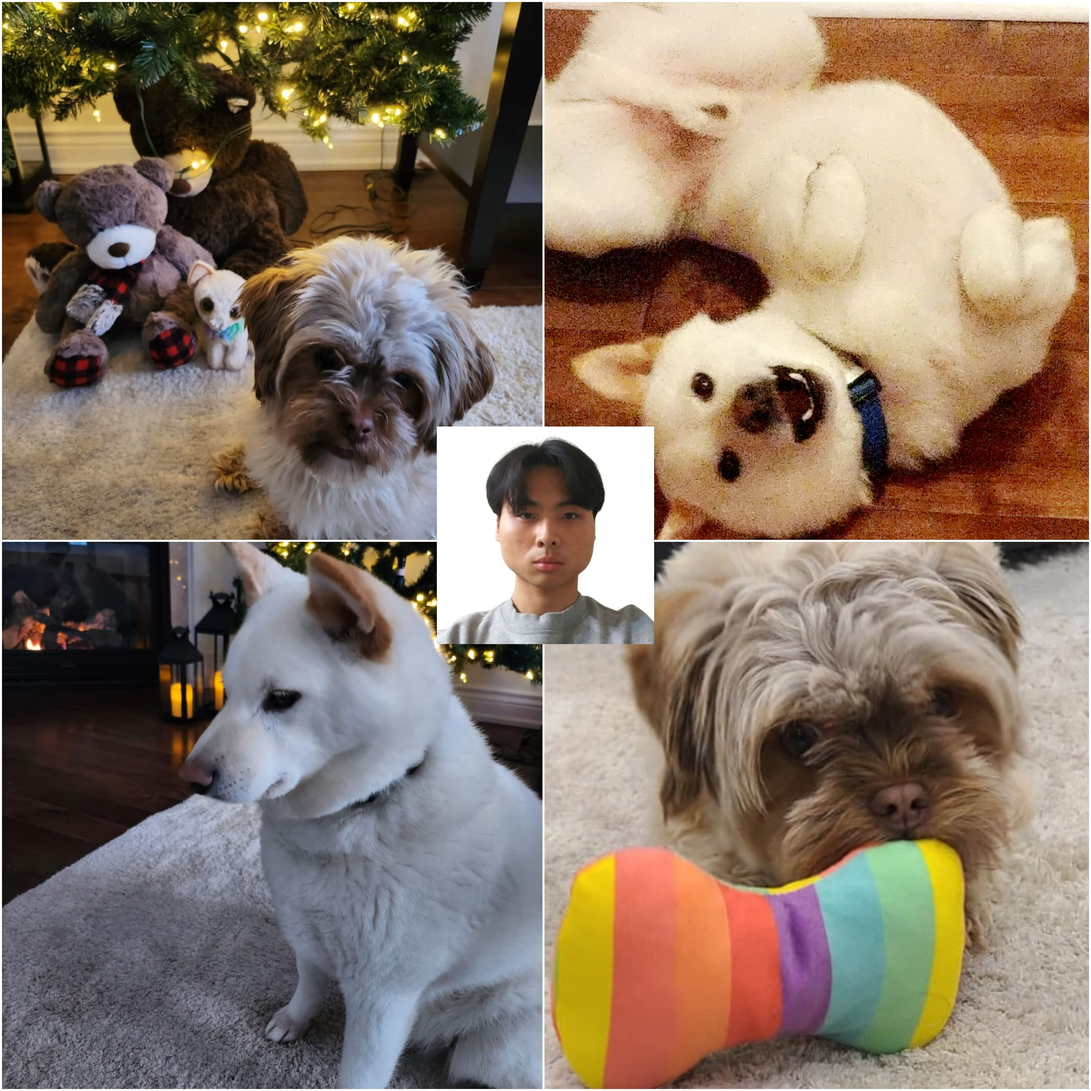
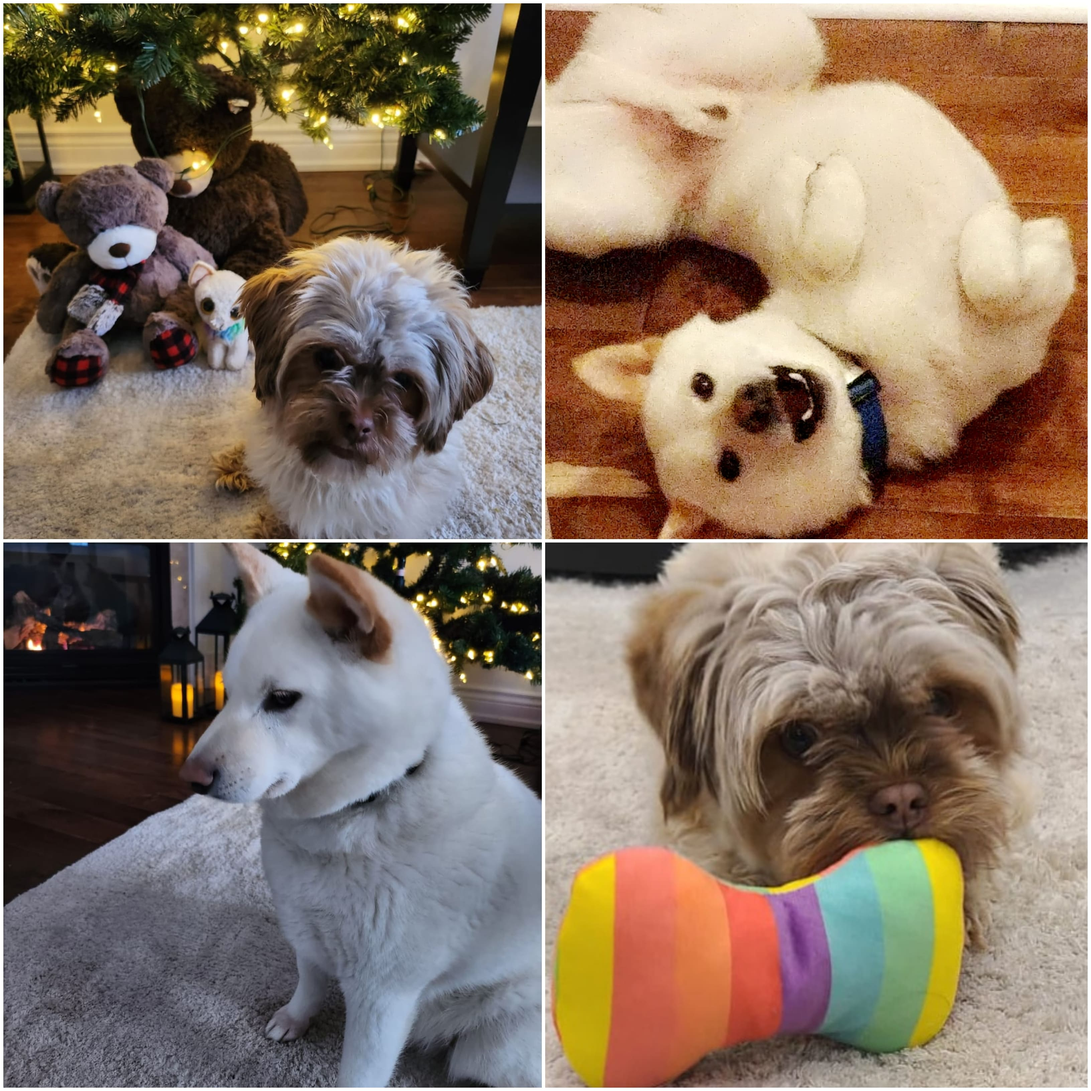
Update pictures.

diff --git a/src/components/Carousel.tsx b/src/components/Carousel.tsx
@@ -19,7 +19,7 @@ import career from "../img/career.jpg";
 import collage_work_mix from "../img/collage_work_mix.jpg";
 import bobbyhill from "../img/bobbyhill.jpg";
 export const SLIDE_ABOUT_ME_DESC =
-    "Software Development Engineer II at Lightspeed in Toronto, Canada. BSc Computer Science at Wilfrid Laurier University. Co-Founder of Starty.";
+    "Software Development Engineer II at Lightspeed in Toronto, Canada. BSc Computer Science at Wilfrid Laurier University. Co-Founder of Starty. Roomates with 2 dogs.";
 export const STARTUP_DESC = `Starty is a social platform to help students innovate together & stand out to employers. Collaborating with accelerator and team to challenge decisions, address market research and pivot on ideas.`;
 export const WORK_PROJECTS_DESC =
     "Holiday recipes from employees in Habanero shared to over a dozen of clients such as Suncor & Petro-Canada.";
@@ -28,7 +28,7 @@ export const SLIDE_PROJECTS_DESC =
 export const SLIDE_WORK_DESC =
     "Products I've engineered in professional workplaces, impacting entreprises such as Sony, Nordstrom, Hudson Bay, Petro Canada.";
 export const slides = [
-    { imgSrc: me3, title: "Matthew Francis", desc: SLIDE_ABOUT_ME_DESC },
+    { imgSrc: me3, title: "Portfolio", desc: SLIDE_ABOUT_ME_DESC },
     {
         // imgSrc: career,
         imgSrc: collage_work_mix,

diff --git a/src/components/DetailAboutMe.tsx b/src/components/DetailAboutMe.tsx
@@ -4,6 +4,8 @@ import DetailBanner from "./DetailBanner";
 import DetailBack from "./DetailBack";
 import me1 from "../img/me1.jpg";
 import me2 from "../img/me2.jpg";
+import me3 from "../img/me3.jpg";
+import me4 from "../img/me4.jpg";
 import { SLIDE_ABOUT_ME_DESC } from "./Carousel";
 import { connect } from "react-redux";
 import { StoreState } from "../reducers";
@@ -30,7 +32,7 @@ const DetailAboutMe: React.FC<DetailAboutMeProps> = (props) => {
                 >
                     <DetailBanner
                         title="About Me"
-                        imgSrc={me1}
+                        imgSrc={me3}
                         desc={SLIDE_ABOUT_ME_DESC}
                     />
                 </div>
@@ -47,7 +49,7 @@ const DetailAboutMe: React.FC<DetailAboutMeProps> = (props) => {
                             Born in Jakarta, Indonesia. Raised in Ontario,
                             Canada.
                         </p>
-                        <img src={me2} alt="" />
+                        <img src={me4} alt="" />
                     </div>
                 </div>
                 <DetailBack />

diff --git a/src/scss/partials/pages/_detail-about-me-and-work.scss b/src/scss/partials/pages/_detail-about-me-and-work.scss
@@ -83,7 +83,8 @@
             @media screen and (min-width: $sm_breakpoint) {
                 margin-top: 5rem;
             }
-            width: 100%;
+            // width: 100%;
+            width: 50%;
             object-fit: cover;
             box-shadow: 0px 63px 154px -20px rgb(7 33 66 / 50%);
         }
